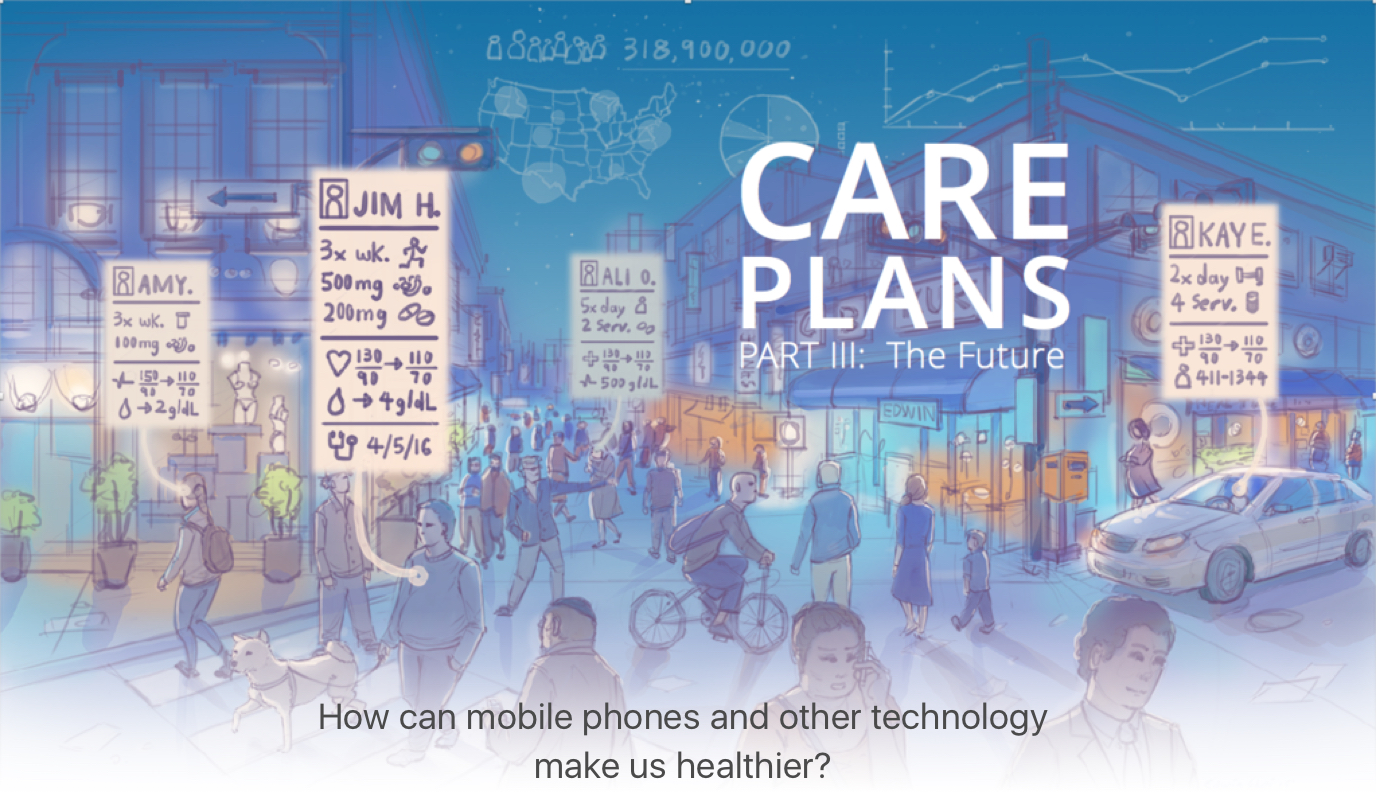
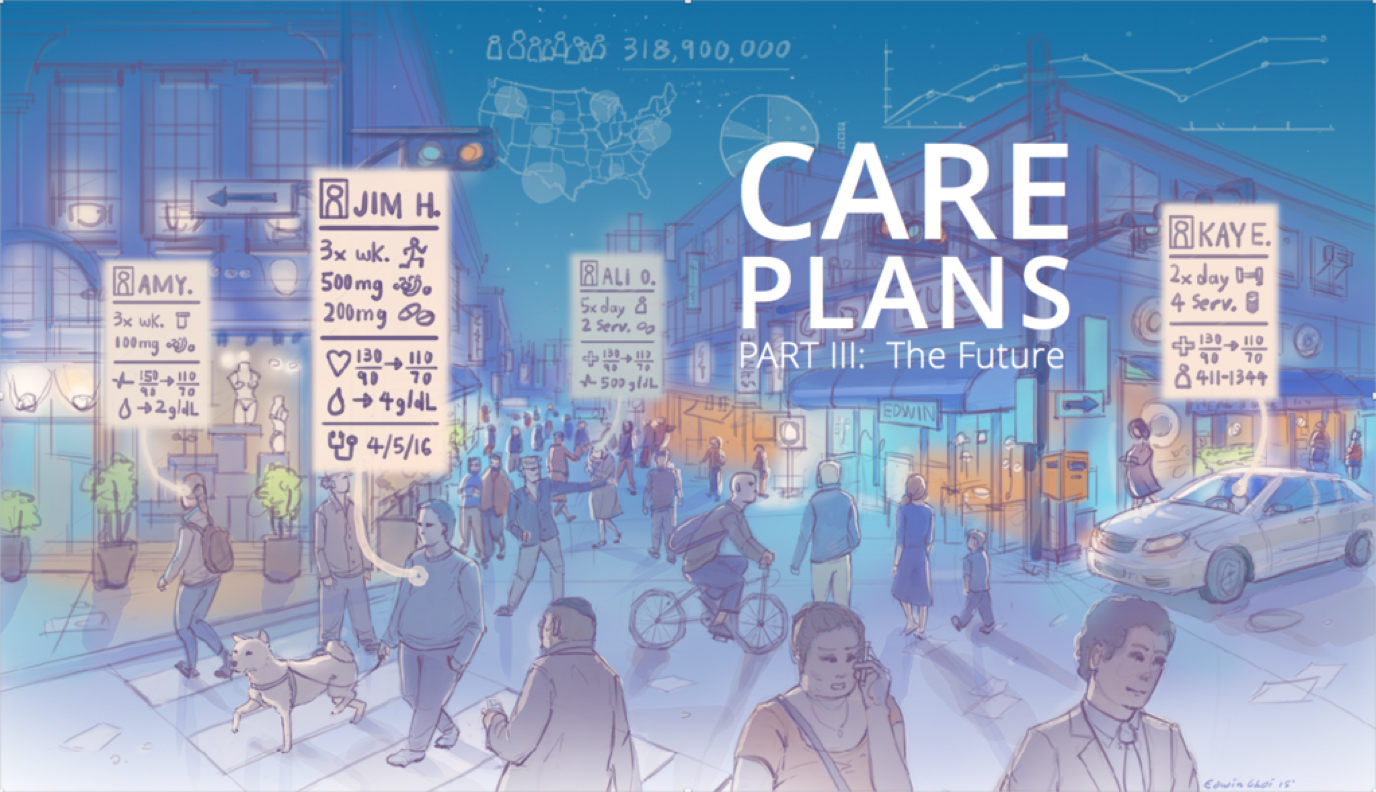
FeatureIII: add gradient for title in hero image

Changed region(s): [[0.0, 0.7879, 1.0, 1.0]]

diff --git a/source/stylesheets/features/careplans.scss b/source/stylesheets/features/careplans.scss
@@ -1908,6 +1908,23 @@ contributor and reference
 /***************************************
 Feature III
 *******************************************/
+#feature-article .hero-bg {
+	height: 700px;
+	background-image: url("../../images/features/careplans/part3/hero_image.jpg");
+	background-size: cover;
+	position: relative;
+
+	p {
+		position: absolute;
+		bottom: 0;
+		text-align: center;
+		width: 100%;
+		padding: 20px;
+		font-size: 1.5rem;
+		line-height: 1.8rem;
+		background-image: linear-gradient(rgba(255,255,255,0), rgba(255,255,255,.6));
+	}
+}
 #feature-article button.see-the-future {
 	background-color: rgba(34, 82, 118, .85);
 	font-size: 1.3rem;
